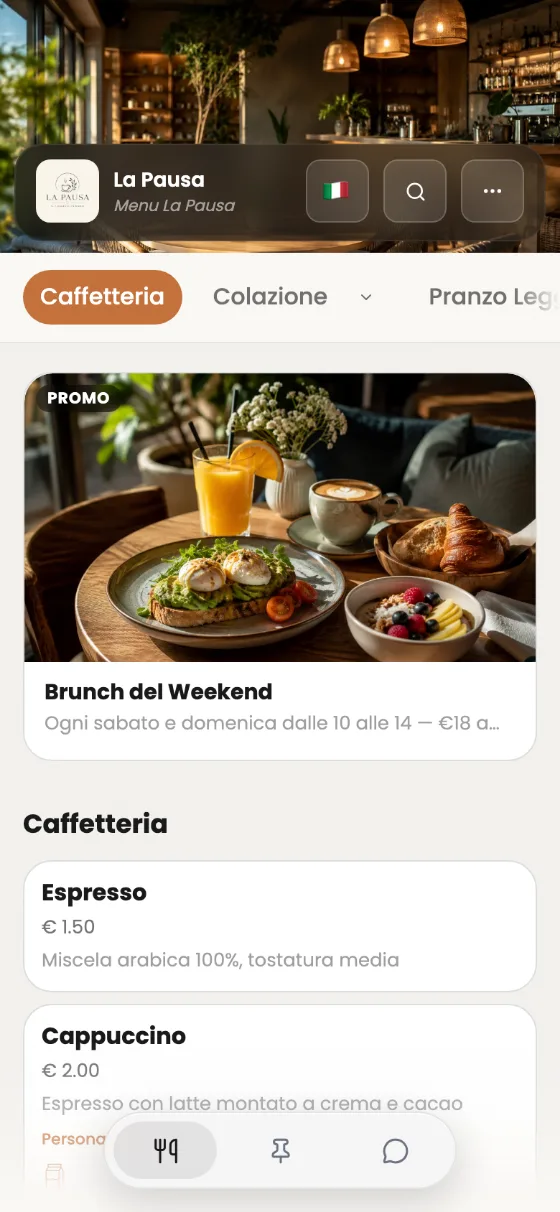
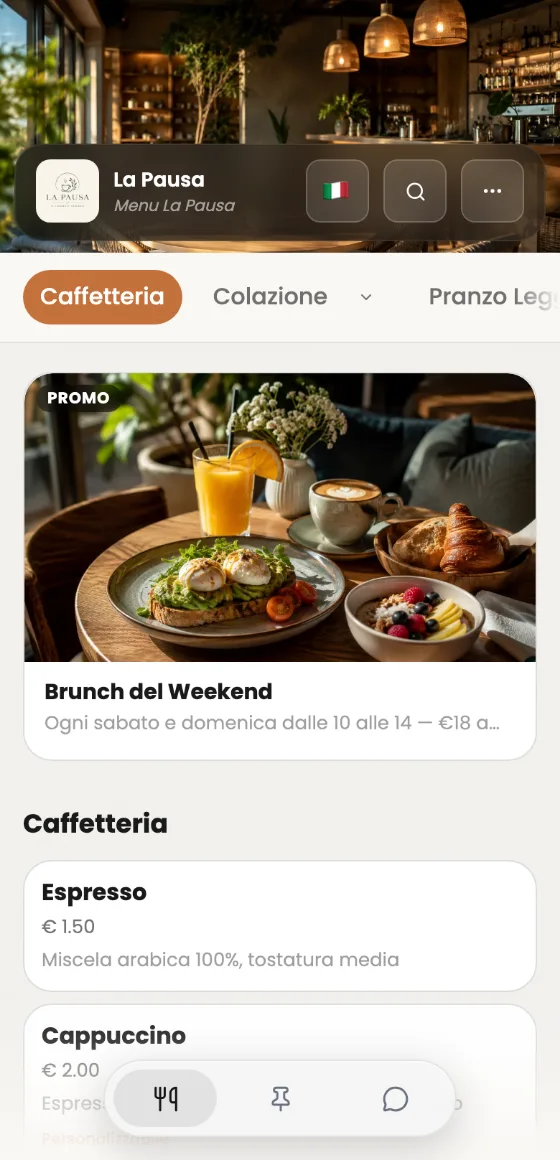
chore(landing): capture demo screenshots at 390x808
808 = 390 x 580 / 280, the proportions of the desktop phone screen: the public
page's bottom navigation bar now lands whole on the frame edge instead of
being cut in half. Regenerated the three WebP (280x580 and 560x1160).

diff --git a/scripts/landing-demo-screenshots.ts b/scripts/landing-demo-screenshots.ts
@@ -8,10 +8,12 @@
  *
  * Usage: npm run landing:demo-screenshots [-- --base https://cataloglobe.com] [-- --out <dir>]
  *
- * Per ogni slug: pagina pubblica a 390×844 @2x (sola lettura), poi due WebP
+ * Per ogni slug: pagina pubblica a 390×808 @2x (sola lettura), poi due WebP
  * larghi quanto lo schermo del telefono sul desktop (280 px) e il doppio
- * (560 px). La conversione in WebP la fa Chromium stesso (canvas), senza
- * dipendenze in più.
+ * (560 px). 808 = 390 × 580 / 280: lo scatto ha le proporzioni dello schermo
+ * del telefono sul desktop (280×580), così la barra di navigazione in basso
+ * della pagina cade intera sul bordo invece di uscire tagliata.
+ * La conversione in WebP la fa Chromium stesso (canvas), senza dipendenze in più.
  */
 
 import { mkdirSync, writeFileSync } from "node:fs";
@@ -19,7 +21,7 @@ import { resolve } from "node:path";
 import { chromium } from "@playwright/test";
 
 const SLUGS = ["il-molo-34", "la-pausa", "velvet-garden"] as const;
-const VIEWPORT = { width: 390, height: 844 };
+const VIEWPORT = { width: 390, height: 808 };
 const SCALE = 2;
 /** Larghezza dello schermo del telefono sul desktop (`.phone` 300 − 2 × 10 di padding), 1x e 2x. */
 const WIDTHS = [280, 560] as const;

diff --git a/src/pages/CampaignLanding/components/sections/Demos/Demos.tsx b/src/pages/CampaignLanding/components/sections/Demos/Demos.tsx
@@ -47,7 +47,7 @@ function PhonePreview({ selected, preload }: { selected: number; preload: boolea
                             srcSet={SCREENS[v.key]}
                             sizes="(min-width: 1024px) 280px, 230px"
                             width={280}
-                            height={606}
+                            height={580}
                             loading="lazy"
                             decoding="async"
                             alt={on ? DEMOS.screenAlt(v.name) : ""}

diff --git a/src/pages/CampaignLanding/components/sections/Demos/Demos.module.scss b/src/pages/CampaignLanding/components/sections/Demos/Demos.module.scss
@@ -96,7 +96,8 @@
     transition: background-color 300ms ease;
 }
 
-// Screenshot 390×844: largo quanto lo schermo, in alto, il resto tagliato sotto.
+// Screenshot 390×808 (proporzioni dello schermo desktop): largo quanto lo
+// schermo, in alto; sul mobile (230×430) il resto si taglia sotto.
 // Dissolvenza: quello nuovo sale sopra; il vecchio sparisce a dissolvenza finita.
 .shot {
     position: absolute;
